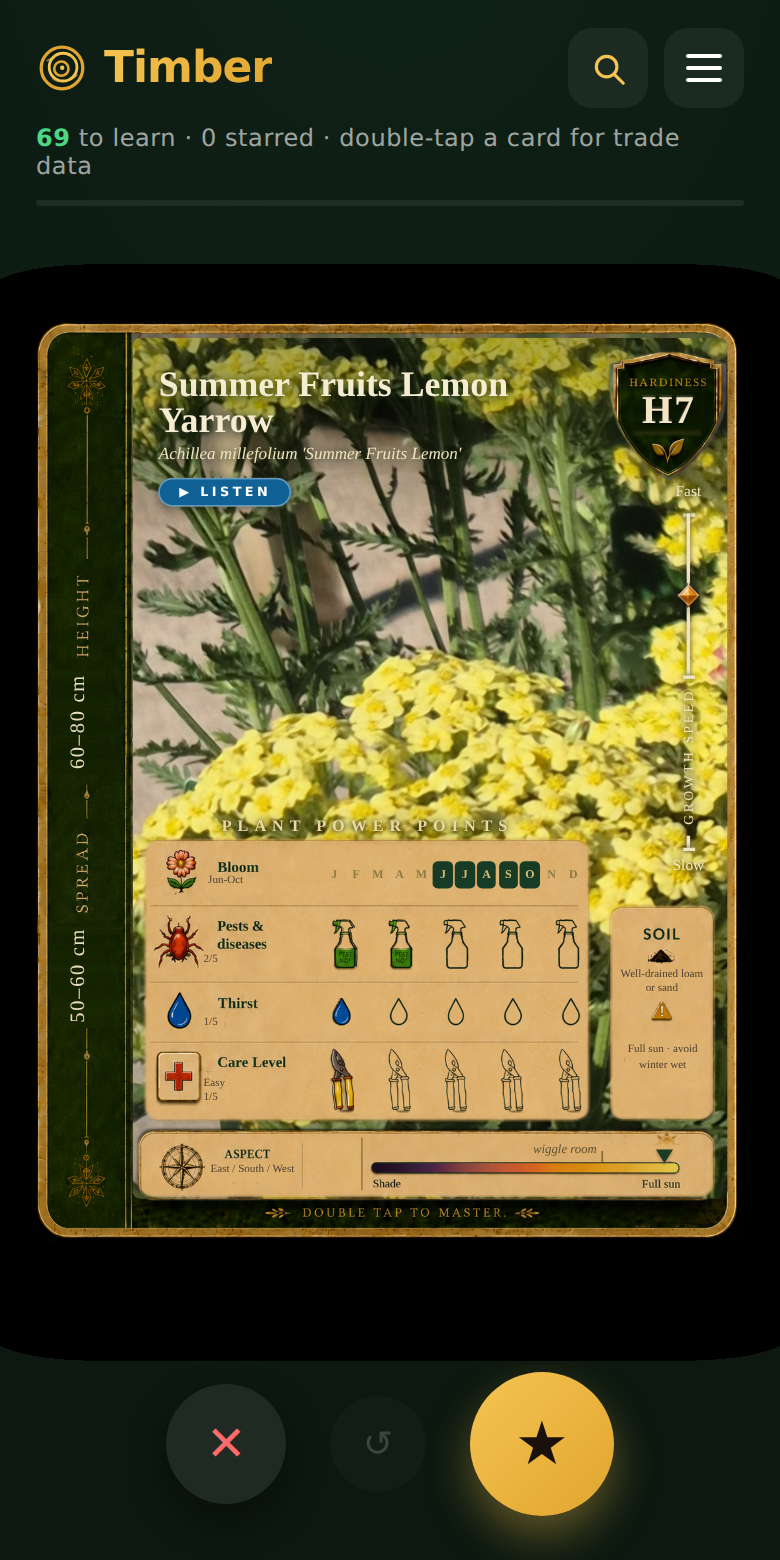
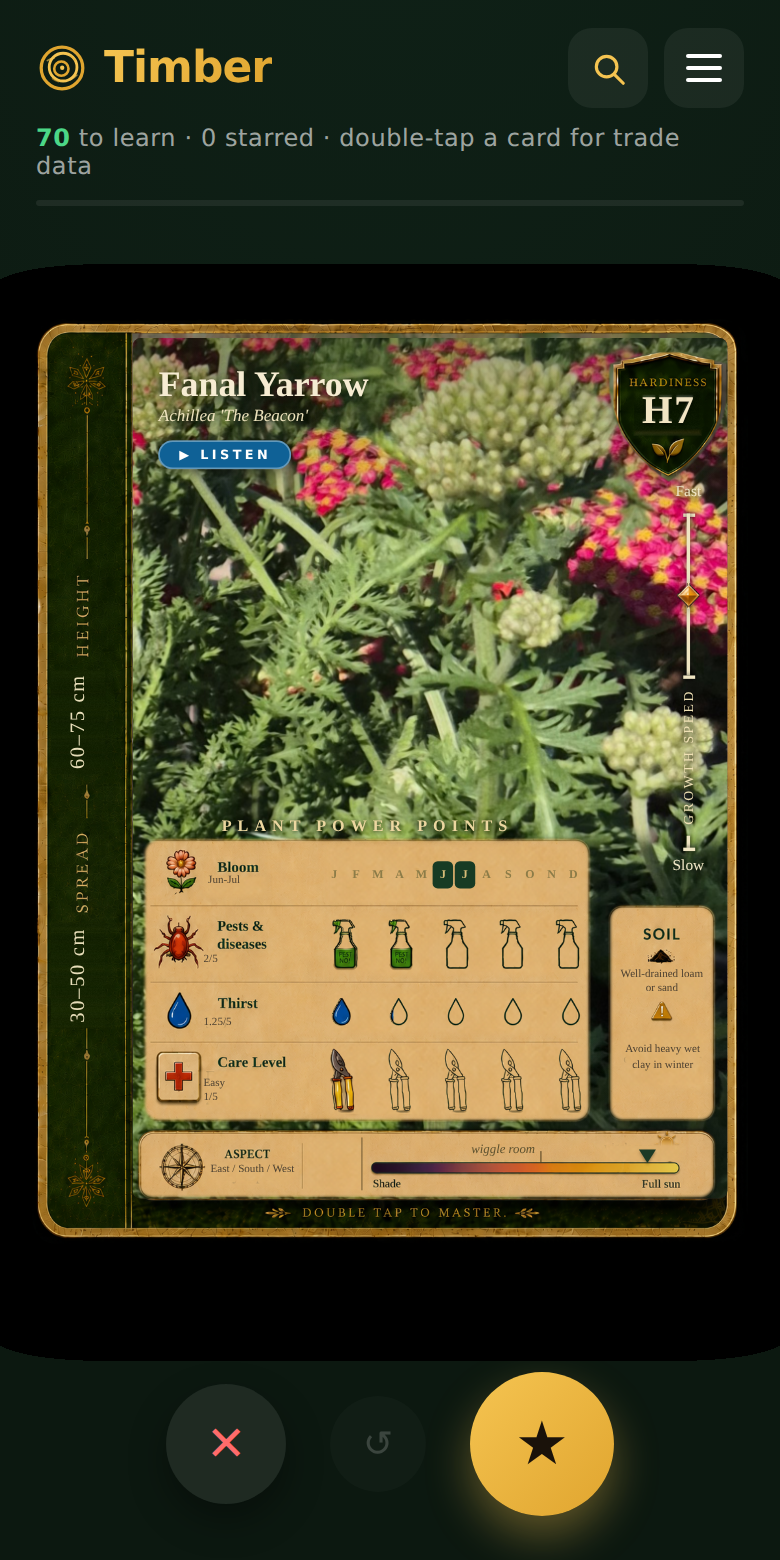
Add Fanal Yarrow to deck: 69 -> 70

Changed region(s): [[0.1538, 0.2154, 0.9538, 0.7692], [0.6154, 0.7077, 0.7077, 0.7385], [0.0308, 0.0615, 0.0923, 0.0923]]

diff --git a/timber.html b/timber.html
@@ -1428,6 +1428,18 @@ const PLANTS = [
    hardiness:"H7", resilience:"drought tolerant · exposed-site tolerant",
    uses:"pollinators · cut flowers · prairie borders", size:"60–80 cm H × 50–60 cm W",
    seasonalImpact:"", growthSpeed:10, pestRisk:8, thirst:4, careLevel:4, sunNeed:95, sunMin:75},
+  {common:"Fanal Yarrow", latin:"Achillea 'The Beacon'", hue:350,
+   visual:"Cerise-red flat flowerheads · yellow centres · finely cut grey-green foliage",
+   water:"Low once established",
+   aspect:"East / South / West",
+   soil:"Well-drained loam or sand; Avoid heavy wet clay in winter",
+   prune:"Deadhead; cut untidy foliage back in spring",
+   source:"", peak:"Jun-Jul", order:"", bench:"", root:"",
+   trade:"", retail:"", margin:"", type:"", shrink:"", returnRisk:"", pots:"",
+   cvs:"syn. Achillea millefolium 'Fanal'",
+   hardiness:"H7", resilience:"drought tolerant · exposed-site tolerant",
+   uses:"pollinators · cut flowers · cottage borders", size:"60–75 cm H × 30–50 cm W",
+   seasonalImpact:"", growthSpeed:10, pestRisk:8, thirst:5, careLevel:4, sunNeed:90, sunMin:55},
 ];
 /* PLANTS:END */
 

diff --git a/tests/edge-test.js b/tests/edge-test.js
@@ -1,5 +1,5 @@
 const { chromium } = require('playwright');
-const NPLANTS = 69;  // plants in the demo deck
+const NPLANTS = 70;  // plants in the demo deck
 const URL = 'http://localhost:8477/timber.html';
 let passed = 0, failed = 0;
 const fails = [];

diff --git a/tests/app-test.js b/tests/app-test.js
@@ -1,5 +1,5 @@
 const { chromium } = require('playwright');
-const NPLANTS = 69;  // plants in the demo deck
+const NPLANTS = 70;  // plants in the demo deck
 
 const URL = 'http://localhost:8477/timber.html';
 let passed = 0, failed = 0;
